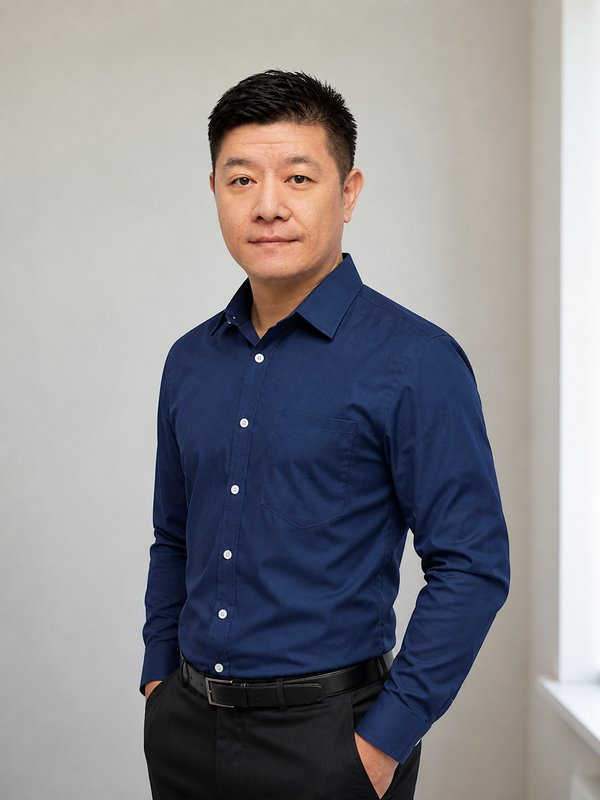
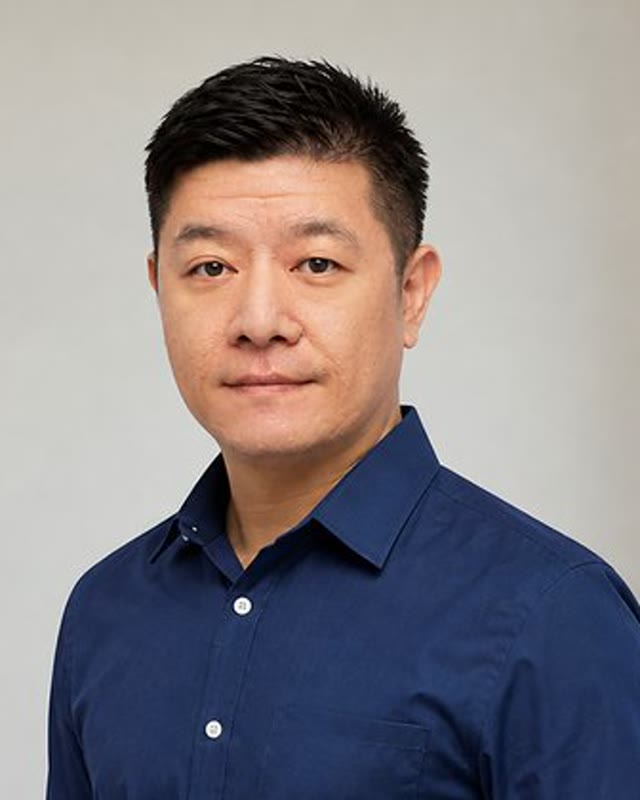
Judges: add Joseph & Jason, standardize names (EN+中文), unify photos to half-body
- Restore Joseph 周煜軒 (TigerAI 技術長), removed in bc39b46
- Add Jason YY Lin 林穎彥 (AMD 軟體開發工程師)
- All judge names now "English + 中文" with styled span
- Re-crop geo/victor/stanley + process joseph/jason to consistent
  half-body framing (4:5, 640x800); rule documented in README
- Placeholder card redesigned: person silhouette + question mark

diff --git a/index.html b/index.html
@@ -745,10 +745,10 @@
         <div class="judges-carousel" id="judgesCarousel">
           <article class="judge-card">
             <div class="judge-photo">
-              <img src="assets/photos/morris-2.jpg" alt="Morris" loading="lazy">
+              <img src="assets/photos/morris-2.jpg" alt="Morris 盧業興" loading="lazy">
             </div>
             <div class="judge-info">
-              <div class="judge-name">Morris</div>
+              <div class="judge-name">Morris<span>盧業興</span></div>
               <div class="judge-role">TigerAI 執行長 · n8n Taiwan Ambassador</div>
               <div class="judge-field">商業可行性 × 產業應用</div>
               <blockquote class="judge-quote">「我看過最多失敗的 AI 作品，問題從來不是技術不夠炫，而是沒有解決真實的問題。」</blockquote>
@@ -757,10 +757,10 @@
 
           <article class="judge-card">
             <div class="judge-photo">
-              <img src="assets/photos/stanley.jpg" alt="Stanley" loading="lazy">
+              <img src="assets/photos/stanley.jpg" alt="Stanley 林毓晟" loading="lazy">
             </div>
             <div class="judge-info">
-              <div class="judge-name">Stanley</div>
+              <div class="judge-name">Stanley<span>林毓晟</span></div>
               <div class="judge-role">自動化 n8n 顧問</div>
               <div class="judge-field">流程設計 × 工具串接</div>
               <blockquote class="judge-quote">「最美的自動化不是炫技，而是讓使用者根本感覺不到它的存在。」</blockquote>
@@ -769,10 +769,10 @@
 
           <article class="judge-card">
             <div class="judge-photo">
-              <img src="assets/photos/leo.jpg" alt="Leo" loading="lazy">
+              <img src="assets/photos/leo.jpg" alt="Leo 謝侑霖" loading="lazy">
             </div>
             <div class="judge-info">
-              <div class="judge-name">Leo</div>
+              <div class="judge-name">Leo<span>謝侑霖</span></div>
               <div class="judge-role">TigerAI 企業講師</div>
               <div class="judge-field">教學實作 × 工具運用</div>
               <blockquote class="judge-quote">「好的自動化不是省事，而是讓你把時間花在真正重要的事情上。」</blockquote>
@@ -781,10 +781,10 @@
 
           <article class="judge-card">
             <div class="judge-photo">
-              <img src="assets/photos/geo.jpg" alt="Geo" loading="lazy">
+              <img src="assets/photos/geo.jpg" alt="Geo 渠智勇" loading="lazy">
             </div>
             <div class="judge-info">
-              <div class="judge-name">Geo</div>
+              <div class="judge-name">Geo<span>渠智勇</span></div>
               <div class="judge-role">TigerAI 工程師</div>
               <div class="judge-field">系統架構 × 工程實作</div>
               <blockquote class="judge-quote">「能跑得通是基本，能跑得穩、跑得久才是好作品。」</blockquote>
@@ -793,19 +793,44 @@
 
           <article class="judge-card">
             <div class="judge-photo">
-              <img src="assets/photos/victor.jpg" alt="Victor" loading="lazy">
+              <img src="assets/photos/victor.jpg" alt="Victor 游文賢" loading="lazy">
             </div>
             <div class="judge-info">
-              <div class="judge-name">Victor</div>
+              <div class="judge-name">Victor<span>游文賢</span></div>
               <div class="judge-role">AI 資安顧問</div>
               <div class="judge-field">資料隱私 × 風險評估</div>
               <blockquote class="judge-quote">「AI 越強大，使用它的責任就越大。懂得保護資料的開發者，才是值得信任的開發者。」</blockquote>
             </div>
           </article>
 
+          <article class="judge-card">
+            <div class="judge-photo">
+              <img src="assets/photos/joseph.jpg" alt="Joseph 周煜軒" loading="lazy">
+            </div>
+            <div class="judge-info">
+              <div class="judge-name">Joseph<span>周煜軒</span></div>
+              <div class="judge-role">TigerAI 技術長</div>
+              <div class="judge-field">技術深度 × 架構設計</div>
+              <blockquote class="judge-quote">「n8n 讓每個人都能成為工程師，我想看見你用它做出意料之外的東西。」</blockquote>
+            </div>
+          </article>
+
+          <article class="judge-card">
+            <div class="judge-photo">
+              <img src="assets/photos/jason.jpg" alt="Jason YY Lin 林穎彥" loading="lazy">
+            </div>
+            <div class="judge-info">
+              <div class="judge-name">Jason YY Lin<span>林穎彥</span></div>
+              <div class="judge-role">AMD 軟體開發工程師</div>
+              <div class="judge-field">系統評估 × 領域知識</div>
+              <blockquote class="judge-quote">「當自動化工具把『做完』的門檻降到最低，能精準驗證『做對』，就成了開發者最無可取代的價值。」</blockquote>
+            </div>
+          </article>
+
           <article class="judge-card judge-card-placeholder">
             <div class="judge-photo judge-photo-placeholder">
-              <i data-lucide="plus"></i>
+              <i data-lucide="user" class="placeholder-silhouette"></i>
+              <span class="placeholder-q">?</span>
             </div>
             <div class="judge-info">
               <div class="judge-name">企業特邀評審</div>

diff --git a/styles.css b/styles.css
@@ -2548,6 +2548,14 @@ body.modal-open {
   line-height: 1.2;
 }
 
+.judge-name span {
+  font-size: 15px;
+  font-weight: 700;
+  color: var(--gray-500);
+  margin-left: 7px;
+  letter-spacing: 0;
+}
+
 .judge-role {
   font-size: 13px;
   color: var(--gray-600);
@@ -2578,18 +2586,31 @@ body.modal-open {
   border-top: 1px dashed var(--gray-200);
 }
 
-/* 陸續新增 placeholder 卡 */
+/* 陸續新增 placeholder 卡 — 人形剪影 + 問號 */
 .judge-photo-placeholder {
   display: flex;
   align-items: center;
   justify-content: center;
+  position: relative;
+  background: linear-gradient(160deg, var(--lightgray), #E6E8EB);
 }
 
-.judge-photo-placeholder svg {
-  width: 56px;
-  height: 56px;
-  color: var(--gray-400);
-  stroke-width: 1.5;
+.placeholder-silhouette {
+  width: 130px;
+  height: 130px;
+  color: var(--gray-300);
+  stroke-width: 1.25;
+}
+
+.placeholder-q {
+  position: absolute;
+  top: 33%;
+  left: 50%;
+  transform: translate(-50%, -50%);
+  font-family: var(--font-display);
+  font-size: 46px;
+  font-weight: 900;
+  color: var(--pink);
 }
 
 .judge-card-placeholder .judge-name {

diff --git a/README.md b/README.md
@@ -113,6 +113,19 @@ const targetDate = new Date('2026-06-05T10:00:00+08:00').getTime();
 ### 改報名連結
 在 `index.html` 中搜尋 `#register`，替換為實際的 Google Form 網址。
 
+### 評審照片規格（重要規則）
+
+新增或更換評審照片時，**一律統一為「半身照」**：
+
+- **構圖**：頭頂（含少量留白）到胸口／腰部之間，臉部要明顯、佔比足夠。
+- **太遠的照片要裁切**：若原圖是全身照或 3/4 身照，必須裁切（crop）拉近成半身，讓所有評審的臉部大小一致。不要直接把全身照塞進卡片。
+- **比例**：輸出 4:5 直幅（卡片 `.judge-photo` 是 `aspect-ratio: 4/5`），建議尺寸 640×800。
+- **格式**：存成 `.jpg`，檔案大小控制在 60KB 以內（用 ffmpeg `-q:v 3`）。
+- **檔名**：英文小寫，與評審英文名一致，例：`joseph.jpg`、`jason.jpg`。
+- **裁切工具**：`ffmpeg -i 原圖 -vf "crop=寬:高:x:y,scale=640:800" -q:v 3 輸出.jpg`
+
+> 原始照片放在 `../網站所需資料/評審委員照片/`，處理後的成品放在 `website/assets/photos/`。
+
 ---
 
 ## 發布到網路
